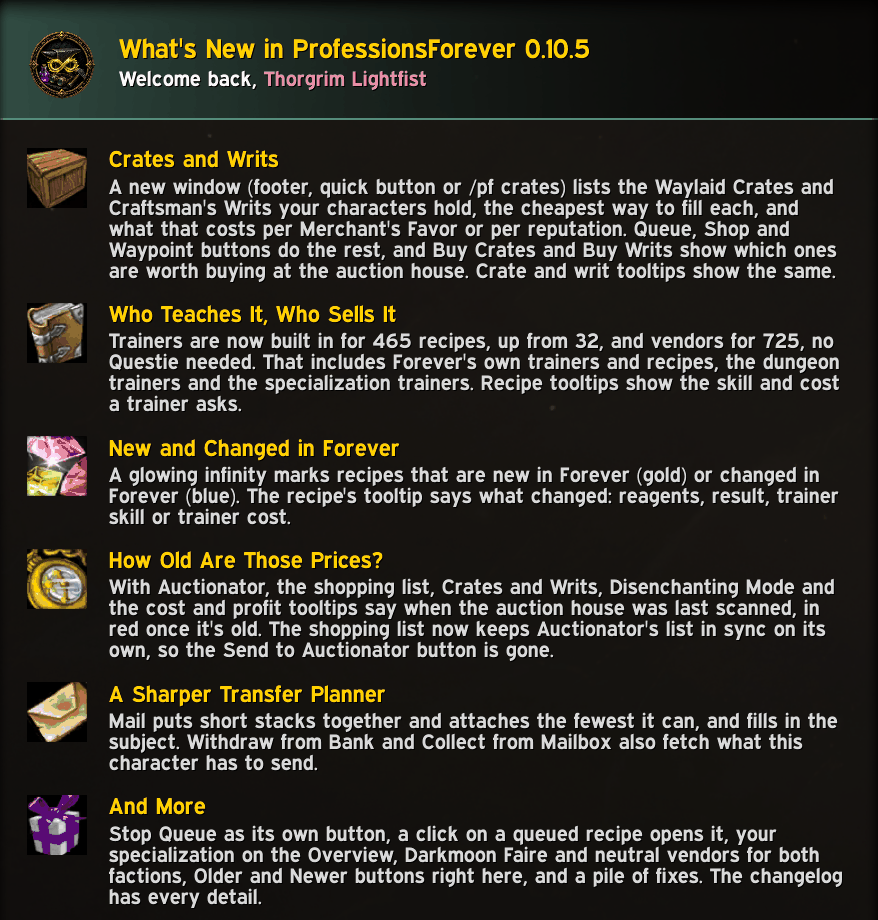
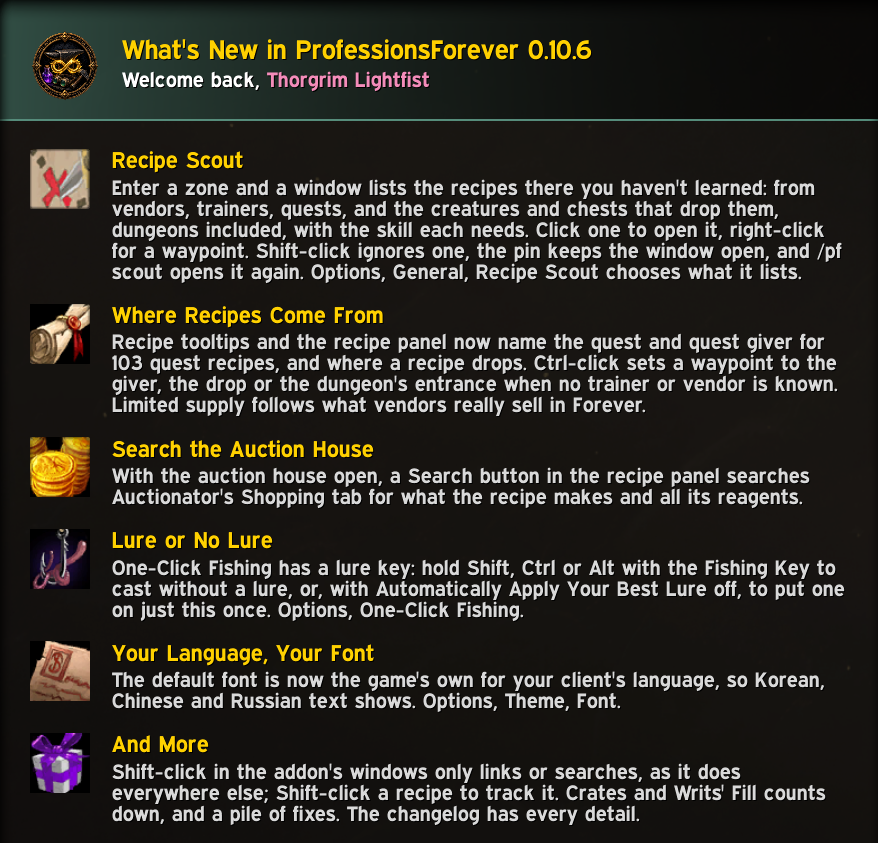
Update website for 0.10.6: changelog, Recipe Scout, new What's New screenshot

diff --git a/index.html b/index.html
@@ -60,7 +60,7 @@
 			</a>
 		</div>
 		<div class="meta-line">
-			<span>Version 0.10.5</span>
+			<span>Version 0.10.6</span>
 			<span>Free and open source (GPL-3.0)</span>
 			<span>Built for WoW: Forever only</span>
 			<span>No required dependencies</span>
@@ -118,20 +118,20 @@
 		<div class="new-box">
 			<div class="new-text">
 				<p class="eyebrow">Latest release</p>
-				<h2 id="new-title">New in 0.10.5 <span class="badge">CURRENT</span></h2>
-				<p class="new-intro">What's arrived in 0.10.4 and 0.10.5.</p>
+				<h2 id="new-title">New in 0.10.6 <span class="badge">CURRENT</span></h2>
+				<p class="new-intro">What's arrived in 0.10.6.</p>
 				<ul class="new-list">
-					<li><strong>Crates and Writs:</strong> a new window (footer, quick button or <code>/pf crates</code>) lists the Waylaid Crates and Craftsman's Writs your characters hold, what each pays, the cheapest way to fill it and the cost per Merchant's Favor or reputation. Queue, Shop, Fill and Waypoint right from the row, and see what a crate or writ bought at the auction house would cost once filled.</li>
-					<li><strong>Trainers and vendors built in:</strong> 465 trainer-taught recipes (up from 32), with the skill and cost the trainer asks, and 725 vendor recipes, Forever's own trainers, vendors and camp recipes included. No Questie needed, and it works in any game language.</li>
-					<li><strong>New and Changed in Forever:</strong> a glowing infinity marks recipes that are new in Forever (gold) or changed in Forever (blue), and the tooltip says what changed: reagents, result, trainer skill or cost.</li>
-					<li><strong>How old is that price?</strong> With Auctionator, "Auction Scan: 2h Ago" shows in the shopping list, Crates and Writs, Disenchanting Mode and the cost and profit tooltips, turning red once it's old. Auctionator's shopping list now stays in sync by itself.</li>
-					<li><strong>Chains use what your alts hold:</strong> queuing a recipe no longer queues smelting bars your bank alt already has. With alts counting toward planning, what they hold is used first.</li>
-					<li><strong>And more:</strong> the recipe tooltip can dock beside the window, your specialization on the Overview, Older and Newer buttons in What's New, smarter mail that stacks before it attaches, Stop Queue as its own button, and fixes for the queue, the Transfer Planner and Darkmoon Faire vendors.</li>
+					<li><strong>Recipe Scout:</strong> enter a zone and a window lists the recipes there you haven't learned: from vendors, trainers, quests, and the creatures and chests that drop them, dungeons included, with the skill each needs. Click to open a recipe, right-click for a waypoint, <kbd>Shift</kbd>-click to ignore one, and pin the window to follow you from zone to zone. <code>/pf scout</code> opens it again.</li>
+					<li><strong>Where recipes come from:</strong> tooltips and the recipe panel name the quest and quest giver for 103 quest recipes, and where a recipe drops, with a waypoint to the giver, the drop or the dungeon's entrance. Limited supply follows what Forever's vendors really sell.</li>
+					<li><strong>Search the auction house:</strong> with the auction house open, a Search button in the recipe panel searches Auctionator's Shopping tab for what the recipe makes and all its reagents.</li>
+					<li><strong>Lure or no lure:</strong> One-Click Fishing has a key to skip the lure for a cast, or to add one when you normally fish without.</li>
+					<li><strong>Your language, your font:</strong> the default font is now the game's own for your client's language, so Korean, Chinese and Russian text shows.</li>
+					<li><strong>And more:</strong> <kbd>Shift</kbd>-click in the addon's windows only links or searches, <kbd>Shift</kbd>-click a recipe to track it, Crates and Writs' Fill counts down, and fixes.</li>
 </ul>
 				<a class="btn" href="changelog.html">Read the full changelog</a>
 			</div>
 			<figure class="shot new-shot">
-				<a href="assets/screenshots/whats-new.png" class="zoom"><img src="assets/screenshots/whats-new.png" alt="The What's New window in game, listing the highlights of version 0.10.5: Crates and Writs, who teaches and sells each recipe, New and Changed in Forever, and how old auction prices are." width="878" height="920" loading="lazy"></a>
+				<a href="assets/screenshots/whats-new.png" class="zoom"><img src="assets/screenshots/whats-new.png" alt="The What's New window in game, listing the highlights of version 0.10.6: Recipe Scout, where recipes come from, searching the auction house, the One-Click Fishing lure key, and the Game Default font." width="878" height="843" loading="lazy"></a>
 				<figcaption>What's New</figcaption>
 			</figure>
 		</div>
@@ -275,7 +275,7 @@
 				</figure>
 				<div class="tour-text">
 					<p class="eyebrow">Crates and Writs</p>
-					<h3>Which crate is worth filling? <span class="new-tag">New</span></h3>
+					<h3>Which crate is worth filling?</h3>
 					<p>Footer cell, quick button or <code>/pf crates</code>.</p>
 					<ul>
 						<li>Every Waylaid Crate and Craftsman's Writ your characters hold, with what each pays, the cheapest way to fill it and the cost per Merchant's Favor or per reputation.</li>
@@ -341,10 +341,19 @@
 
 		<div class="features features-tail">
 			<article class="feature">
+				<h3>Recipe Scout <span class="new-tag">New</span></h3>
+				<ul>
+					<li>Enter a zone and a window lists the recipes you haven't learned that you can get there: vendors (marked when their supply is limited), trainers, quests, and the creatures and chests that drop them. In a dungeon, what its creatures and chests drop.</li>
+					<li>Click to open a recipe, right-click for a waypoint to whoever sells, teaches, gives or drops it, <kbd>Shift</kbd>-click to ignore it in that zone.</li>
+					<li>Leaves out other specializations' recipes and Darkmoon Faire merchants who are out of town. Pin it to follow you from zone to zone, or open it with <code>/pf scout</code>.</li>
+				</ul>
+			</article>
+			<article class="feature">
 				<h3>One-Click Fishing</h3>
 				<ul>
 					<li>One key casts, and the same key catches when the fish bites. It only ever clicks your bobber.</li>
 					<li>Gets you ready first: your fishing gear set, best pole and best lure, then casts. Your normal gear goes back on when you mount, stop fishing or leave combat.</li>
+					<li><strong>Lure or no lure:</strong> hold <kbd>Shift</kbd>, <kbd>Ctrl</kbd> or <kbd>Alt</kbd> to cast without the lure, or, if you fish without lures, to put one on just this once.</li>
 					<li><strong>Louder Fishing Sounds:</strong> effects turned up while your line is out, with music and ambience muted if you like.</li>
 				</ul>
 			</article>
@@ -360,6 +369,7 @@
 				<h3>Navigation</h3>
 				<ul>
 					<li>Waypoints through Polestar or TomTom to vendors, trainers and bankers, with trainers for 465 recipes and vendors for 725 built in, Forever's own included. No Questie needed, in any game language.</li>
+					<li>Quest givers for 103 quest recipes, and where recipes drop, with waypoints to the giver, the drop or the dungeon's entrance.</li>
 					<li><strong>It learns:</strong> trainers, vendors and bankers you visit are remembered, so it gets better as you play.</li>
 				</ul>
 			</article>
@@ -367,7 +377,7 @@
 				<h3>Look and feel</h3>
 				<ul>
 					<li><strong>Five skins:</strong> Modern Dark, Blackout, Classic and Minimal, plus EllesmereUI when it's installed.</li>
-					<li><strong>Make it yours:</strong> font, size, scale, opacity and accent colour. Your Professions keybind and the micro-menu button open this window.</li>
+					<li><strong>Make it yours:</strong> font (the game's own for your language by default), size, scale, opacity and accent colour. Your Professions keybind and the micro-menu button open this window.</li>
 				</ul>
 			</article>
 		</div>
@@ -381,7 +391,7 @@
 		<h2 id="int-title">Even better with the addons you already use</h2>
 		<p class="lead">Everything is optional. Features that need a missing addon simply don't show, and each addon has its own page under Options, Integrations.</p>
 		<div class="integrations">
-			<div class="integration"><h3>Auctionator</h3><p>Prices and how old they are, crafting costs and profit, disenchant values, crate and writ costs, and a synced shopping list.</p></div>
+			<div class="integration"><h3>Auctionator</h3><p>Prices and how old they are, crafting costs and profit, disenchant values, crate and writ costs, a synced shopping list, and a Search button for a recipe and its reagents.</p></div>
 			<div class="integration"><h3>Syndicator</h3><p>Your bank and your other characters' bags, bank and mail.</p></div>
 			<div class="integration"><h3>Questie / QuestieDB</h3><p>More vendor, trainer and banker locations.</p></div>
 			<div class="integration"><h3>Polestar or TomTom</h3><p>Waypoints and the arrow. Polestar also prints multi-step routes.</p></div>
@@ -435,7 +445,7 @@
 						<thead><tr><th scope="col">Command</th><th scope="col">What it does</th></tr></thead>
 						<tbody>
 							<tr><td><code>/pf</code></td><td>Open or close the window</td></tr>
-							<tr><td><code>/pf queue</code>, <code>/pf shop</code>, <code>/pf transfer</code>, <code>/pf cd</code>, <code>/pf camp</code>, <code>/pf crates</code></td><td>Crafting queue, shopping list, Transfer Planner, cooldowns, Camp, Crates and Writs</td></tr>
+							<tr><td><code>/pf queue</code>, <code>/pf shop</code>, <code>/pf transfer</code>, <code>/pf cd</code>, <code>/pf camp</code>, <code>/pf crates</code>, <code>/pf scout</code></td><td>Crafting queue, shopping list, Transfer Planner, cooldowns, Camp, Crates and Writs, Recipe Scout</td></tr>
 							<tr><td><code>/pf track shop</code></td><td>Show or hide the shopping list on screen</td></tr>
 							<tr><td><code>/pf recipe</code>, <code>/pf reagent</code></td><td>Recipe Search by name or by reagent</td></tr>
 							<tr><td><code>/pf de</code></td><td>Disenchanting Mode</td></tr>
@@ -453,7 +463,7 @@
 			</div>
 		</div>
 		<h3 class="table-title" id="settings">Settings</h3>
-		<p class="settings-text">Options are sorted into categories: <strong>General</strong> (shopping list scope, Alt Inventory, the Transfer Planner at your bank or mailbox, notifications), <strong>Appearance</strong>, <strong>Quick Buttons</strong> (buttons and key bindings), <strong>Disenchanting</strong>, <strong>Tooltips</strong> (every line, with a live preview), <strong>One-Click Fishing</strong>, <strong>Integrations</strong> (a page per supported addon) and <strong>About</strong>. Each category has its own reset.</p>
+		<p class="settings-text">Options are sorted into categories: <strong>General</strong> (shopping list scope, Alt Inventory, the Transfer Planner at your bank or mailbox, notifications, Recipe Scout), <strong>Appearance</strong>, <strong>Quick Buttons</strong> (buttons and key bindings), <strong>Disenchanting</strong>, <strong>Tooltips</strong> (every line, with a live preview), <strong>One-Click Fishing</strong>, <strong>Integrations</strong> (a page per supported addon) and <strong>About</strong>. Each category has its own reset.</p>
 	</div>
 </section>
 

diff --git a/changelog.html b/changelog.html
@@ -41,6 +41,7 @@
 		<h1 style="font-family: var(--font-head); font-size: clamp(2rem, 5vw, 2.8rem); margin: 0 0 14px;">Changelog</h1>
 		<p class="lead">Every release and what changed in it. Download it from <a href="https://www.curseforge.com/wow/addons/professionsforever">CurseForge</a> or <a href="https://github.com/ProfessionsForever/Professions_Forever/releases">GitHub Releases</a>.</p>
 		<ul class="toc-versions">
+			<li><a href="#v0-10-6">0.10.6</a></li>
 			<li><a href="#v0-10-5">0.10.5</a></li>
 			<li><a href="#v0-10-4">0.10.4</a></li>
 			<li><a href="#v0-10-3">0.10.3</a></li>
@@ -52,7 +53,43 @@
 			<li><a href="#v0-9-2">0.9.2</a></li>
 			<li><a href="#v0-9-1">0.9.1</a></li>
 		</ul>
-<h2 id="v0-10-5">0.10.5 <span class="badge">LATEST</span></h2>
+<h2 id="v0-10-6">0.10.6 <span class="badge">LATEST</span></h2>
+<h3>Added</h3>
+<ul>
+<li><strong>Recipe Scout:</strong> entering a zone opens a window listing the recipes you have not learned that you can get there: sold by a vendor (marked Limited Supply), taught by a trainer, rewarded by a quest, or dropped by a creature or held by a chest or other object, with the skill each needs. Inside a dungeon or raid it lists what its creatures and chests drop. It opens once per zone each session, and <code>/pf scout</code> opens it again. Click a recipe to open it, right-click for a waypoint to its vendor, trainer, quest giver or drop, Shift-click to ignore it in that zone for this character (Show Ignored lists them again). A recipe you already bought says whether it is in your bags, bank or mailbox. Recipes of a specialization you do not have, creatures friendly to your side, Darkmoon Faire merchants while the faire is elsewhere and Winter Veil vendors outside the Feast of Winter Veil are left out. The Drops dropdown lists all drops, only the recipes that drop nowhere but in the zone, or none. The window reopens where you dragged it, and its pin keeps it open and lists each zone you enter. Opening a vendor records which recipes it sells in a limited supply, and the window follows that. Options, General, Recipe Scout turns off opening on its own, pins the window and chooses what it lists.
+</li>
+<li><strong>Quest and drop sources:</strong> the recipe tooltip and the recipe panel name the quest and quest giver for 103 quest recipes, and the creatures, objects and dungeons a recipe drops in. Ctrl-click sets a waypoint to the giver, the drop or the dungeon's entrance when no trainer or vendor is known.
+</li>
+<li><strong>Auctionator Search button:</strong> while the auction house is open, a Search button in the recipe panel searches Auctionator's Shopping tab for what the recipe makes and each of its reagents, as Auctionator's own button does on Blizzard's window. Options, Integrations, Auctionator turns it off.
+</li>
+<li><strong>One-Click Fishing, lure key:</strong> under Options, One-Click Fishing, hold Shift, Ctrl or Alt with the Fishing Key to do the opposite of Automatically Apply Your Best Lure: Skip the Lure While Holding casts without putting a lure on, or, with Automatically Apply Your Best Lure off, Add a Lure While Holding puts your best lure on first.
+</li>
+</ul>
+<h3>Changed</h3>
+<ul>
+<li><strong>Font:</strong> the default font is now Game Default, the game's own font for your client's language, so Korean, Chinese and Russian text shows. Options, Theme, Font.
+</li>
+<li><strong>Vendors:</strong> 52 more vendors, 7 trainers and 3 bankers recorded in Forever are built in, and the vendors' limited supplies follow what Forever's vendors really sell.
+</li>
+<li>General fixes and performance refactors.
+</li>
+</ul>
+<h3>Fixed</h3>
+<ul>
+<li><strong>Crates and Writs, Held:</strong> a crate's fill has a box around it, showing it opens a list of fills. With the number box set to more than one, Fill counts it down by one.
+</li>
+<li><strong>Shift-click:</strong> in the addon's windows, Shift-click only links the item or recipe (or searches it in Auctionator's Shopping tab), and no longer also adds a reagent to the shopping list, opens a recipe or a shopping list item, fills the Transfer Planner's request row, or tracks a recipe while the auction house is open.
+</li>
+<li><strong>Shift-click a recipe:</strong> with no chat box open, it tracks the recipe in the objective tracker, as Blizzard's window does, an unlearned one too, instead of setting a waypoint. Ctrl-click still sets the waypoint.
+</li>
+<li><strong>Auctionator search with a box selected:</strong> Shift-clicking an item searches it in Auctionator's Shopping tab even while the cursor is in the recipe panel's Qty box, the shopping list's boxes, Recipe Search or the Transfer form.
+</li>
+<li><strong>Supply Officers:</strong> Tamelyn Aldridge and the other Supply Officers are no longer named as selling recipes on recipe tooltips, the recipe panel and its waypoint.
+</li>
+<li><strong>Tooltip preview:</strong> the Disenchantable Gear sample in Options, Tooltips no longer shows the Linen Cloth sample's Crafts Into lines.
+</li>
+</ul>
+<h2 id="v0-10-5">0.10.5</h2>
 <h3>Added</h3>
 <ul>
 <li><strong>Crates and Writs:</strong> a new window (footer cell, quick button or <code>/pf crates</code>) lists the Waylaid Crates and Craftsman's Writs your characters hold, with what each pays, the cheapest way to fill it and the cost per Merchant's Favor or per reputation. Queue, Shop, Fill and Waypoint buttons act on a row, and a crate you hold several of has a box for how many to fill. Buy Crates and Buy Writs show what one bought at the auction house would cost once filled; Shop adds it to the shopping list and Ctrl-click searches the auction house. Crate and writ tooltips show the same pay and fill costs (Options, Tooltips, Crates and Writs).
